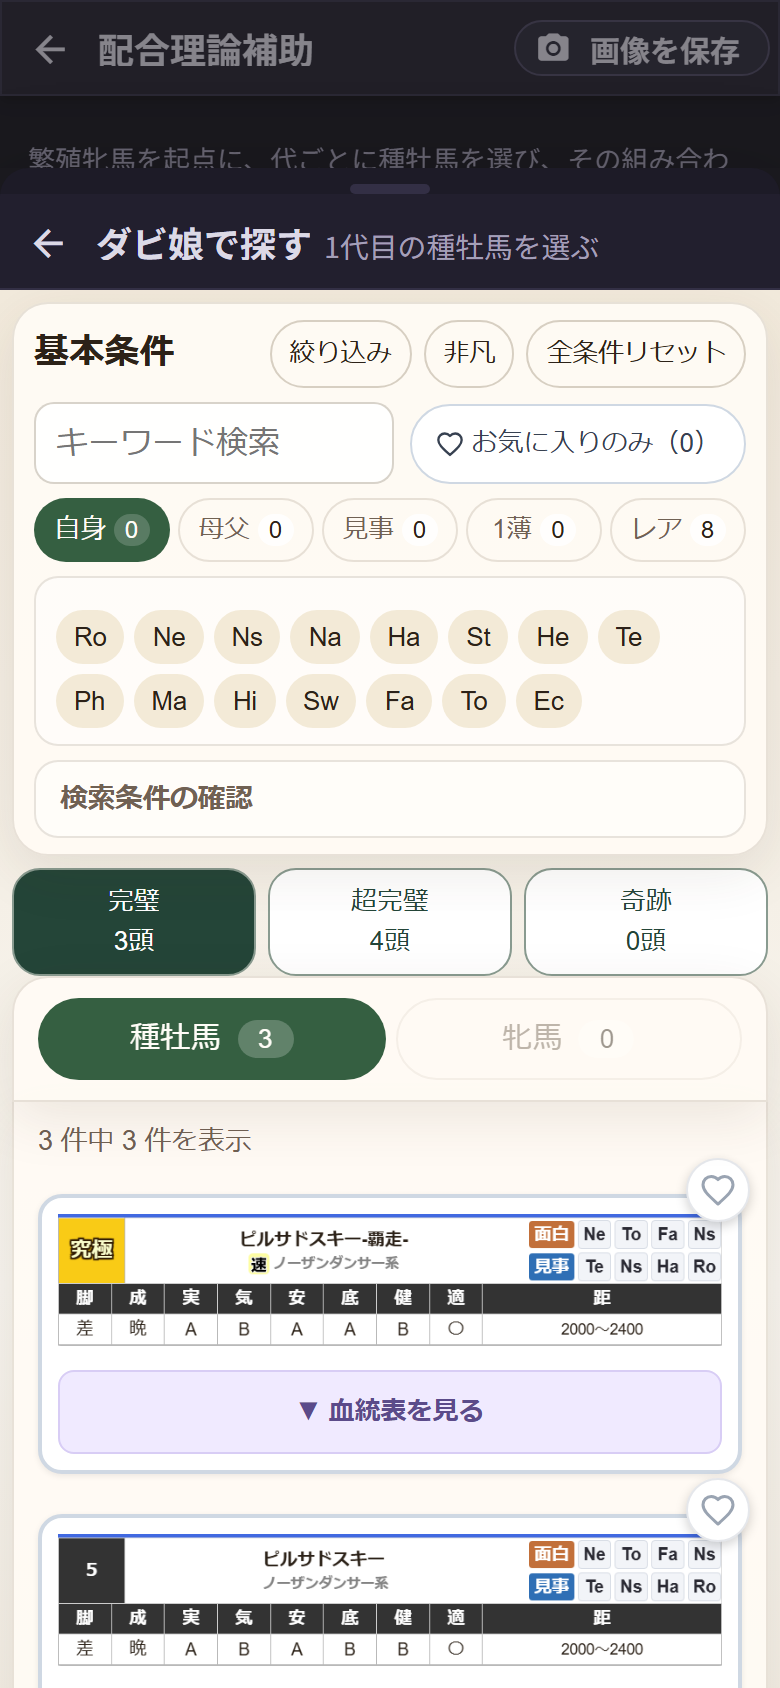
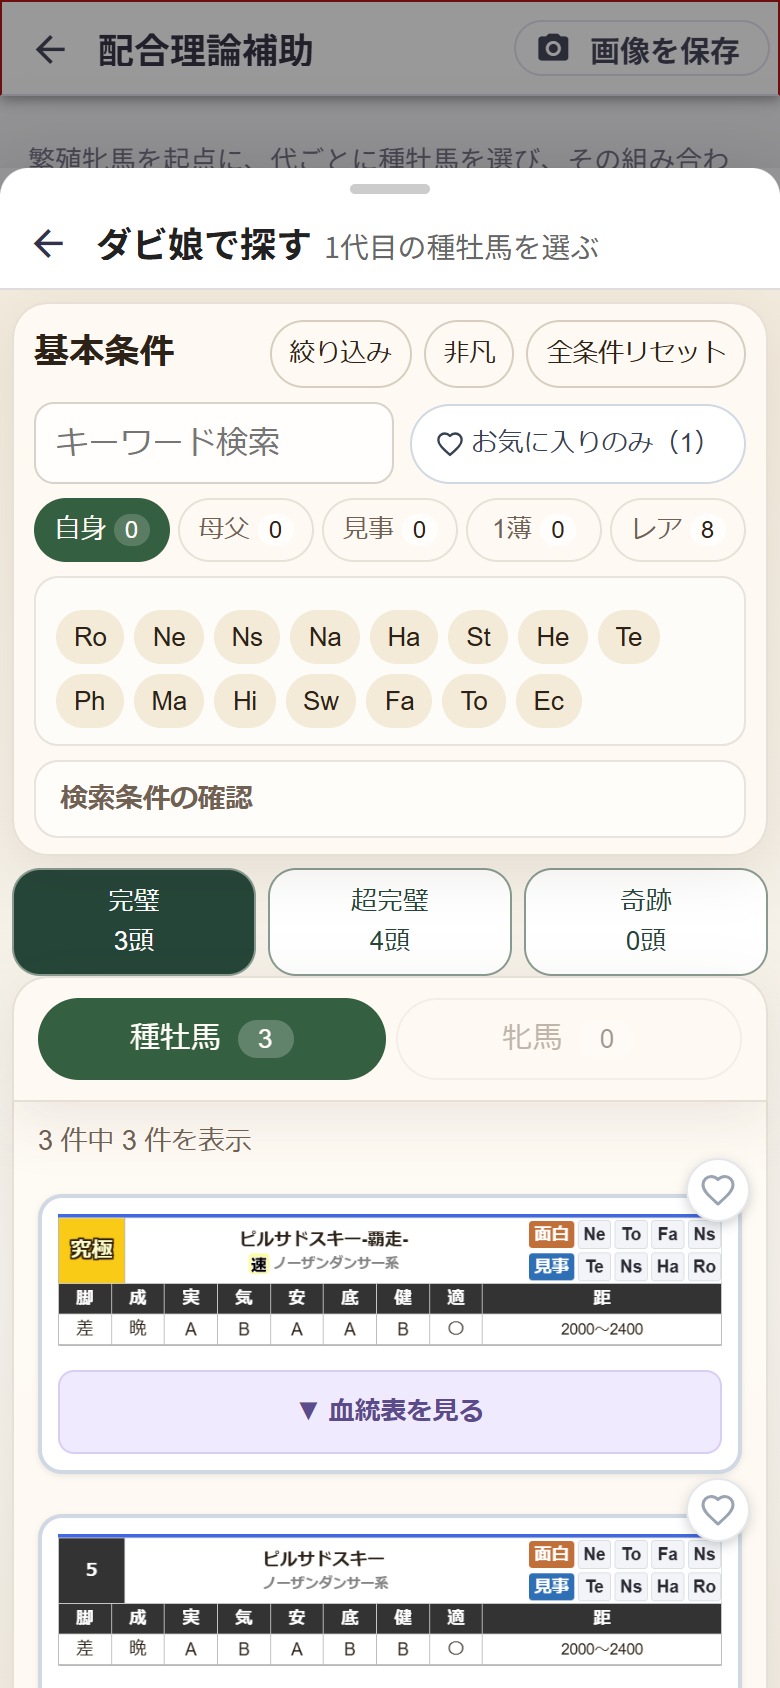
配合理論補助の画像をライトで撮り直し、候補の頭数を今の数に合わせる

Changed region(s): [[0.0, 0.0, 1.0, 0.1848], [0.8615, 0.2464, 0.8923, 0.2773]]

diff --git a/note-article/README.md b/note-article/README.md
@@ -1,7 +1,7 @@
 # note記事「統合版ダビふぁく取説」一式
 
 - [chapters/](./chapters) — 記事本文(チャプターごとに1ファイル、00〜14の連番順に掲載)
-- [images/](./images) — 記事に埋め込むスクリーンショット31枚(基本はiPhoneサイズ 390×844 @2x、10のみPCサイズ 1280×860)。表示テーマはライト(14〜16のみ旧ダーク)
+- [images/](./images) — 記事に埋め込むスクリーンショット31枚(基本はiPhoneサイズ 390×844 @2x、10のみPCサイズ 1280×860)。表示テーマはライト
 
 ## チャプター構成
 
@@ -67,5 +67,5 @@
 
 ## 注意
 
-- スクリーンショットはローカルサーバー(`python scripts/lan_server.py 8766 --bind 127.0.0.1`)+Puppeteerで実アプリを操作して撮影したものです。**表示テーマの既定がライトに戻ったため、ライトで撮り直しています。ただし14〜16(配合理論補助)は、理論チップ(完璧○頭など)が出ない不具合があり撮り直せていないので、旧ダークのままです。** UIが変わったら撮り直しが必要です。
+- スクリーンショットはローカルサーバー(`python scripts/lan_server.py 8766 --bind 127.0.0.1`)+Puppeteerで実アプリを操作して撮影したものです。**表示テーマの既定がライトに戻ったため、ライトで撮り直しています。** UIが変わったら撮り直しが必要です。
 - 機能説明は実装(`vue/components/`、`vue/logic/`、`vue/CombinationDialog.js`、`docs/dabifaku_unified_spec_draft.md`、`docs/dabimusume-integration-design.md`、`docs/haigou-theory-assist-design.md`)を読んで書いています。理論名(面白/見事/よくでき/完璧/超完璧/奇跡/至高)、配合タイトル10文字・保存200件・メモ100文字、配合の名前12文字・アイコン12種、エディット種牡馬100件・因名3文字、子系統58・9色・ラベル10文字などは実装準拠です。

diff --git a/note-article/chapters/07-assist.md b/note-article/chapters/07-assist.md
@@ -16,7 +16,7 @@
 
 **完璧 3頭 / 超完璧 4頭 / 奇跡 0頭**
 
-これは「いま選んでいる繁殖牝馬に対して、その理論が成立する種牡馬が何頭いるか」の実数です。押すとその候補だけに絞り込まれます。2,203頭が3頭になる。初めて押したときは、思わず声が出ました。
+これは「いま選んでいる繁殖牝馬に対して、その理論が成立する種牡馬が何頭いるか」の実数です。押すとその候補だけに絞り込まれます。2,250頭が3頭になる。初めて押したときは、思わず声が出ました。
 
 しかもこの件数、**危険な配合になる組み合わせは除いてあります**。数えてくれたうえに、危ない相手は最初から外してくれている。気が利きすぎです。
 

diff --git a/note-article/chapters/13-settings.md b/note-article/chapters/13-settings.md
@@ -34,7 +34,7 @@
 
 ## 表示テーマ
 
-**ダーク / ライト / 端末に合わせる** の3択です。既定は **ライト**。この記事の画面もライトで撮っています(第7章の配合理論補助の画面のうち2枚は、ダークが既定だったころに撮ったものです)。
+**ダーク / ライト / 端末に合わせる** の3択です。既定は **ライト**。この記事の画面もライトで撮っています。
 
 夜に布団の中で配合を考える派の方は、ダークがおすすめです。画面の地が黒くなって、目にやさしくなります。血統表の色分け(緑=面白枠、黄=見事枠、紺=父、臙脂=母)も、色合いはそのままで、明るさだけ落としてあります。読み方は変わりません。
 
